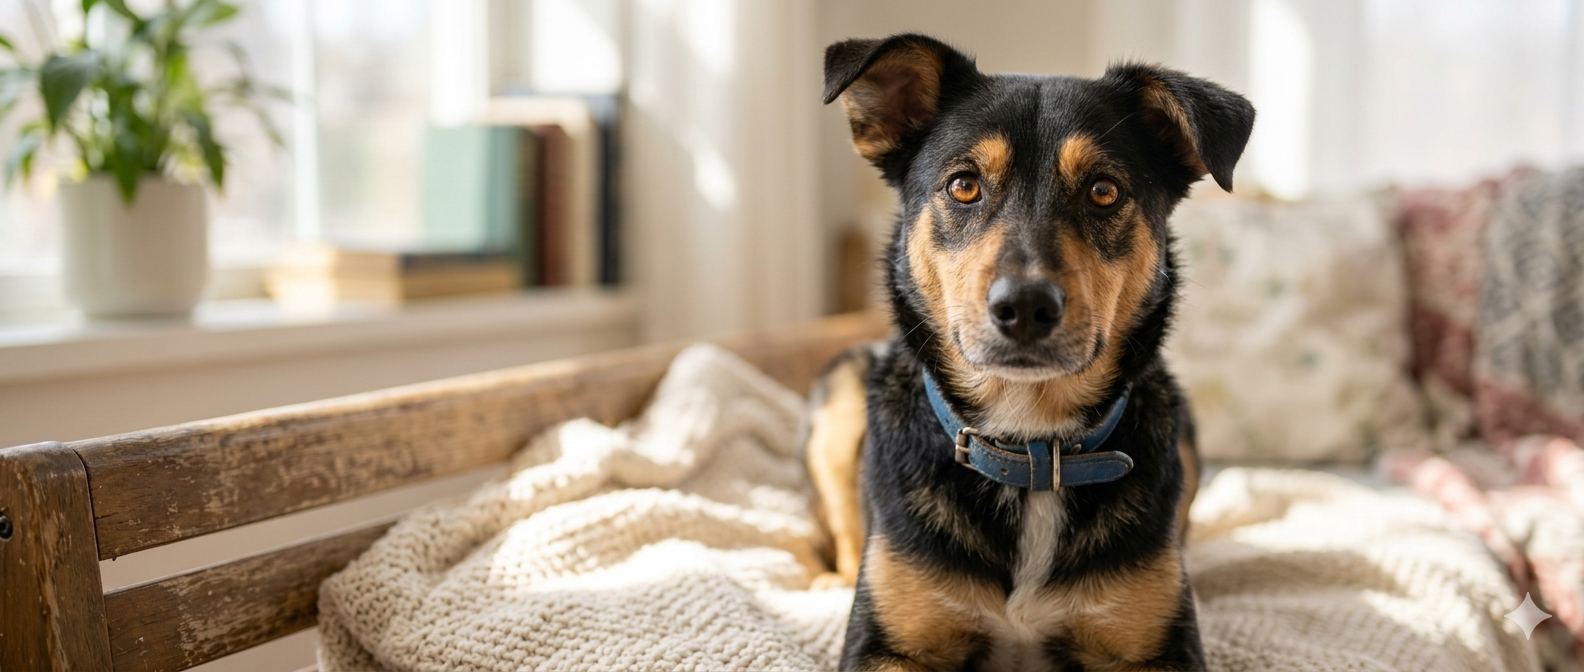
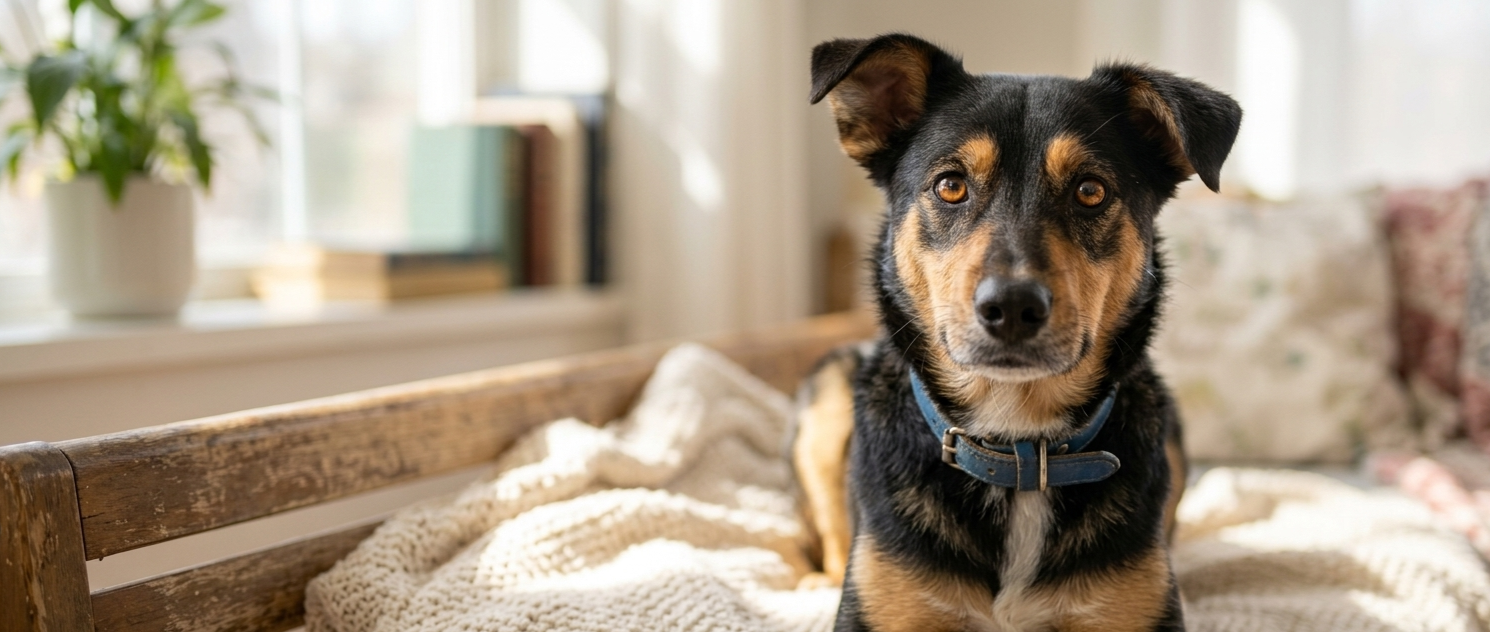
Página sobre e adote, e css

diff --git a/adote.html b/adote.html
@@ -27,26 +27,26 @@
     <!--Principal-->
     <main>
         <div class="container">
-            <div class="titulo"><span>Animais</span></div>
-            
+            <div class="titulo"><span>Nos dê um novo lar</span></div>
+
             <div class="animal"><img src="imagens/Max.jpeg" alt="Foto do animal">
                 <div class="caracteristicas">
                     <p>Idade: 2 anos</p>
                     <p>Características: Carinhoso, curioso e gosta de companhia. Muito fiel.</p>
-                            <div>
-                                <button class="butadotar">Adotar</button>
-                            </div>
+                    <div>
+                        <button class="butadotar">Adotar</button>
+                    </div>
                 </div>
             </div>
 
             <div class="animal"><img src="imagens/Mel.jpeg" alt="Foto do animal">
-                
+
                 <div class="caracteristicas">
                     <p>Idade: 3 meses</p>
                     <p>Características: Doce, dócil e muito amorosa. Ainda está aprendendo tudo.</p>
-                            <div>
-                                <button class="butadotar">Adotar</button>
-                            </div>
+                    <div>
+                        <button class="butadotar">Adotar</button>
+                    </div>
                 </div>
             </div>
 
@@ -55,44 +55,44 @@
                 <div class="caracteristicas">
                     <p>Idade: 2 meses</p>
                     <p>Características: Alegre, curiosa e super ativa. Ama atenção e carinho.</p>
-                            <div>
-                                <button class="butadotar">Adotar</button>
-                            </div>
+                    <div>
+                        <button class="butadotar">Adotar</button>
+                    </div>
                 </div>
             </div>
 
             <div class="animal"><img src="imagens/Thor.jpeg" alt="Foto do animal">
-                
+
                 <div class="caracteristicas">
                     <p>Idade: 3 anos</p>
                     <p>Características: Calmo, tranquilo e adora tomar sol. Ótimo para ambientes mais sossegados.</p>
 
-                            <div>
-                                <button class="butadotar">Adotar</button>
-                            </div>
+                    <div>
+                        <button class="butadotar">Adotar</button>
+                    </div>
                 </div>
             </div>
 
             <div class="animal"><img src="imagens/Bob.jpeg" alt="Foto do animal">
-                
+
 
                 <div class="caracteristicas">
                     <p>Idade: 2 anos</p>
                     <p>Características: Extrovertido, amigável e cheio de energia. Ótimo com pessoas.</p>
-                            <div>
-                                <button class="butadotar">Adotar</button>
-                            </div>
+                    <div>
+                        <button class="butadotar">Adotar</button>
+                    </div>
                 </div>
             </div>
 
             <div class="animal"><img src="imagens/Luna.jpeg" alt="Foto do animal">
-                
+
                 <div class="caracteristicas">
                     <p>Idade: 1 ano e meio</p>
                     <p>Características: Brincalhona, esperta e cheia de energia. Ideal para quem gosta de passeios.</p>
-                            <div>
-                                <button class="butadotar">Adotar</button>
-                            </div>
+                    <div>
+                        <button class="butadotar">Adotar</button>
+                    </div>
                 </div>
             </div>
 

diff --git a/sobre.html b/sobre.html
@@ -27,7 +27,54 @@
     <!--Principal-->
     <main>
         <div class="container">
-            <h2>Sobre Nós</h2>
+            <div class="caixa">
+                <h1>Sobre Nós</h1>
+                <h2>Mais do que um resgate, um recomeço</h2>
+                <h3>No Salve uma Patinha, acreditamos que cada rabo abanando e cada ronronar conta uma história de
+                    esperança.</h3>
+                <img src="imagens/cao texto.png" alt="foto de um cachorro">
+
+                <br>
+
+                <h1>Nossa História</h1>
+                <h3>O Salve uma Patinha nasceu de um sonho simples, mas poderoso: transformar o destino de animais que
+                    só conheciam o abandono. O que começou com um pequeno grupo de voluntários apaixonados, hoje é uma
+                    rede de proteção que já mudou a vida de centenas de animais e famílias. Não somos apenas um site de
+                    adoção; somos a ponte entre a solidão das ruas e o calor de um lar.</h3>
+
+                <br>
+
+                <h1>Nossa Missão, Visão e Valores</h1>
+                <h3>
+                    <ul>
+                        <li>Missão: Resgatar, reabilitar e encontrar lares responsáveis para animais em situação de
+                            vulnerabilidade, promovendo a posse consciente.</li>
+                        <li>Visão: Ser referência em adoção ética, lutando por um mundo onde nenhum animal sofra com o
+                            descaso.</li>
+                        <li>Valores: Amor incondicional, transparência em cada resgate, respeito à vida e compromisso
+                            com a saúde animal.</li>
+                    </ul>
+                </h3>
+
+                <br>
+
+                <p>Antes: um animal sem lar, sendo maltratado na rua X Depois: animal com um lar, sendo amado e cuidado
+                </p>
+                <img src="imagens/antes x depois texto.png" alt="animal sem lar x animal com lar">
+
+                <br>
+
+                <h1>Como Trabalhamos</h1>
+                <h3>Nossos protegidos não são apenas entregues; eles são preparados para a nova vida. Todos passam por
+                    cuidados veterinários, vacinação e um rigoroso processo de socialização. Afinal, queremos garantir
+                    que o 'match' entre você e seu novo amigo seja perfeito e dure para sempre.</h3>
+
+                <br>
+
+                <h1>O Convite Final</h1>
+                <h3>Você não precisa de muito para mudar um mundo. Às vezes, basta abrir a porta da sua casa e o seu
+                    coração. Venha conhecer nossas patinhas e descubra quem está esperando por você.</h3>
+            </div>
         </div>
     </main>
 </body>

diff --git a/style.css b/style.css
@@ -47,7 +47,6 @@ nav {
     display: flex;
     align-items: center;
     justify-content: space-between;
-    position: fixed;
     padding: 10px;
     background-color: rgb(82, 172, 214);
 }
@@ -81,12 +80,12 @@ nav a:hover {
     background-color: rgba(106, 208, 255, 0.616);
 }
 
-main{
+main {
     height: calc(100vh - 10vh);
 }
 
 /*Página de Inicio*/
-.capa{
+.capa {
     width: 80%;
     background-color: whitesmoke;
     display: flex;
@@ -97,12 +96,12 @@ main{
     border-radius: 30px;
     box-shadow: 0 4px 8px 0 rgba(0, 0, 0, 0.2), 0 6px 20px 0 rgba(0, 0, 0, 0.19);
 
-    img{
+    img {
         width: 100%;
         border-radius: 30px;
     }
 
-    a{
+    a {
         display: flex;
         align-items: center;
         justify-content: center;
@@ -116,7 +115,7 @@ main{
         border-radius: 30px;
     }
 
-    a:hover{
+    a:hover {
         background-color: rgba(106, 208, 255, 0.758);
     }
 }
@@ -129,13 +128,12 @@ main{
     align-items: center;
 }
 
-.titulo{
+.titulo {
     text-align: center;
     font-weight: bold;
     font-size: xxx-large;
-    color: whitesmoke;
-    text-shadow: 2px 2px 4px #000000;
-    margin-top: 100px;
+    color: rgb(0, 142, 207);
+    text-shadow: 2px 2px 4px rgba(83, 83, 83, 0.473);
 }
 
 .animal {
@@ -147,8 +145,7 @@ main{
     background-color: whitesmoke;
     border-radius: 20px;
     box-shadow: 0 4px 8px 0 rgba(0, 0, 0, 0.2), 0 6px 20px 0 rgba(0, 0, 0, 0.19);
-    margin-top: 10px;
-    margin-bottom: 50px;
+    margin: 20px 0 20px 0;
     padding: 40px 180px 40px 180px;
     font-size: x-large;
 
@@ -159,11 +156,11 @@ main{
     }
 }
 
-.caracteristicas{
+.caracteristicas {
     padding-left: 80px;
 }
 
-.butadotar{
+.butadotar {
     width: 60%;
     height: 60px;
     font-size: 100%;
@@ -175,6 +172,45 @@ main{
     cursor: pointer;
 }
 
-button:hover{
-    background-color:  rgba(106, 208, 255, 0.758);
+button:hover {
+    background-color: rgba(106, 208, 255, 0.758);
+}
+
+/*Página sobre*/
+.caixa {
+    display: flex;
+    flex-direction: column;
+    width: 70%;
+    height: auto;
+    margin: 20px 0 20px 0;
+    padding: 10px 20px 20px 20px;
+    background-color: whitesmoke;
+    border-radius: 20px;
+    box-shadow: 0 4px 8px 0 rgba(0, 0, 0, 0.2), 0 6px 20px 0 rgba(0, 0, 0, 0.19);
+
+    img {
+        width: 100%;
+        margin: 20px 0 20px 0;
+
+    }
+
+    ul {
+        padding: 0 20px 0 20px;
+    }
+
+    p {
+        text-align: center;
+        font-weight: bold;
+        font-size: medium;
+        color: rgba(36, 124, 165, 0.863);
+    }
+
+    h1 {
+        color: rgb(0, 142, 207);
+    }
+
+    h2,
+    h3 {
+        color: rgba(36, 124, 165, 0.863);
+    }
 }
